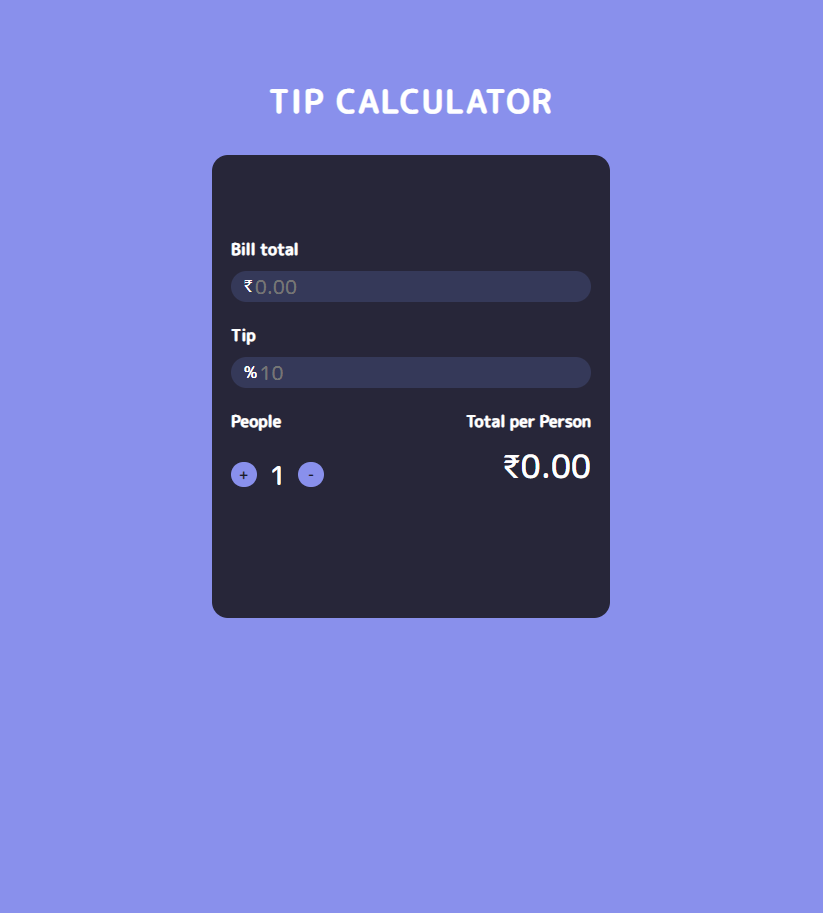
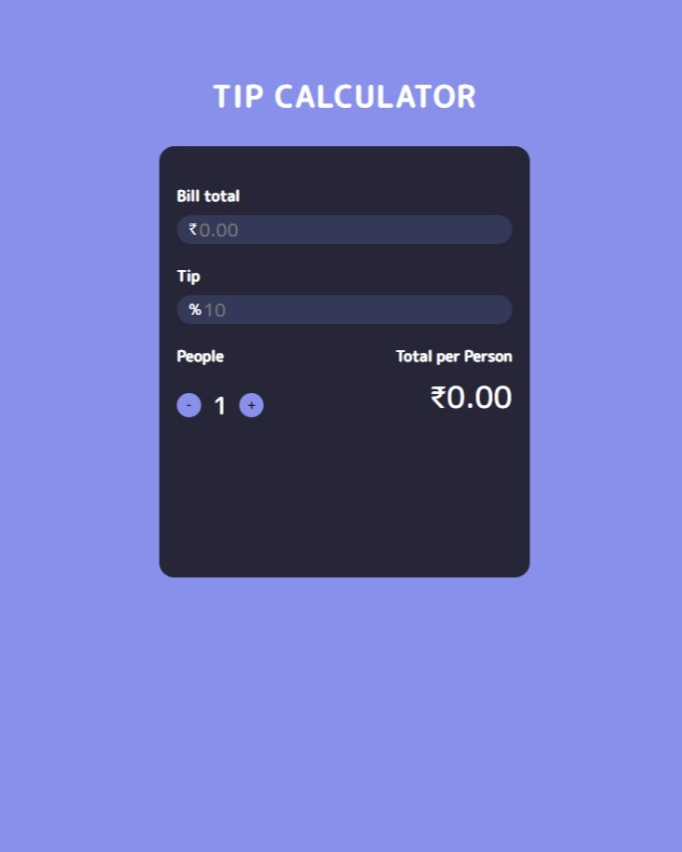
updated code

Changed region(s): [[0.2155, 0.0915, 0.8006, 0.7019]]

diff --git a/index.html b/index.html
@@ -30,13 +30,14 @@
   <body>
     <h1>Tip Calculator</h1>
     <div class="wrapper">
-      <div class="container" id="topContainer">
+      <div class="container topContainer" id="topContainer">
         <div class="title">Bill total</div>
         <div class="inputContainer">
           <span>₹</span>
           <input
             onkeyup="calculateBill()"
             type="text"
+            class="billTotalInput"
             id="billTotalInput"
             placeholder="0.00"
           />
@@ -50,25 +51,26 @@
           <input
             onkeyup="calculateBill()"
             type="text"
+            class="tipInput"
             id="tipInput"
             placeholder="10"
           />
         </div>
       </div>
 
-      <div class="container" id="bottom">
+      <div class="container bottom" id="bottom">
         <div class="splitContainer">
           <div class="title">People</div>
           <div class="controls">
             <span class="buttonContainer">
-              <button class="splitButton" onclick="increasePeople()">
-                <span class="buttonText">+</span>
+              <button class="splitButton" onclick="decreasePeople()">
+                <span class="buttonText">-</span>
               </button>
             </span>
             <span class="splitAmount" id="numberOfPeople">1</span>
             <span class="buttonContainer">
-              <button class="splitButton" onclick="decreasePeople()">
-                <span class="buttonText">-</span>
+              <button class="splitButton" onclick="increasePeople()">
+                <span class="buttonText">+</span>
               </button>
             </span>
           </div>

diff --git a/src/css/style.css b/src/css/style.css
@@ -24,7 +24,7 @@ h1 {
   margin: 30px auto;
 }
 
-#topContainer {
+.topContainer {
   margin-top: 4rem;
 }
 
@@ -45,8 +45,8 @@ h1 {
   align-items: center;
 }
 
-#billTotalInput,
-#tipInput {
+.billTotalInput,
+.tipInput {
   font-size: 1.2rem;
   background: none;
   border: none;
@@ -89,7 +89,7 @@ h1 {
   margin: 0.8rem;
 }
 
-#bottom {
+.bottom {
   display: flex;
   justify-content: space-between;
 }
